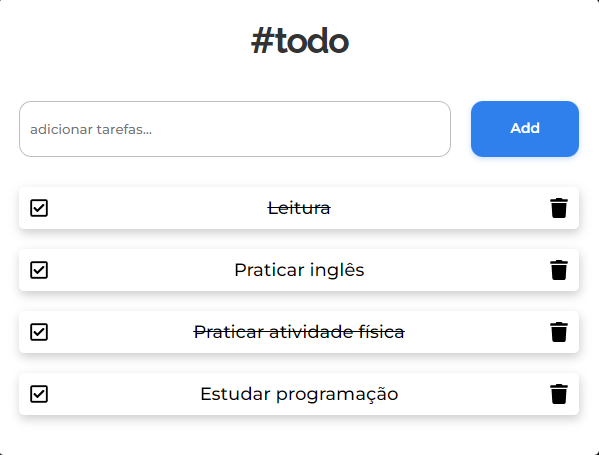
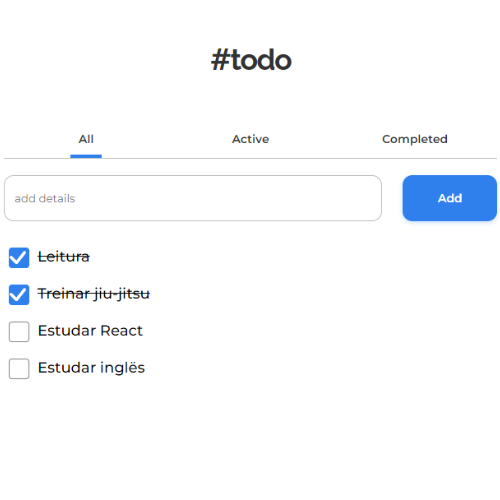
feat: add updated todo-list

diff --git a/src/components/Projects/Projects.jsx b/src/components/Projects/Projects.jsx
@@ -1,5 +1,5 @@
 import Title from "../Title/Title"
-import templateTodo2 from '../../assets/templateTodo2.png'
+import templateTodo from '../../assets/templateTodo.png'
 import templateConvert from '../../assets/templateConvert.png'
 import templateBlog from '../../assets/templateBlog.png'
 import templateForm from '../../assets/templateForm.png'
@@ -26,11 +26,11 @@ const Projects = () => {
           <ItemProject template={templateWeather} name= "Weather"  descrition='O projeto é capaz de obter informações climáticas, como temperatura, estado do vento, pressão do ar, visibilidade, umidade e as previsões climáticas para os próximos 5 dias, assim que a pessoa digitar o nome de alguma cidade. A interface foi criada de forma simples e intuitiva, com campo de busca para digitar o nome da cidade e o botão de busca, assim que o usuário digita e busca as informações são exibidas logo em seguida. O projeto foi desenvolvido com React e usa a API do weatherapi.com para obter as informações climáticas.' link1="https://github.com/miguelfiais/weather" link2="https://mfweather.netlify.app/"
           icon={<SiReact />} icon2={<SiStyledcomponents />} data="23/01/2023"/>
 
+          <ItemProject template={templateTodo} name= "To Do List"  descrition='Eu criei um aplicativo de lista de tarefas usando React que me permite adicionar, atualizar e excluir tarefas. Além disso, eu incluí três modos de exibição diferentes: "all", "active" e "completed". Para alternar entre os modos de exibição, usei a biblioteca React Router DOM para criar rotas diferentes para cada modo. Para garantir que as tarefas sejam salvas mesmo após a atualização da página, implementei o uso do LocalStorage do navegador. Por fim, para permitir que diferentes componentes da aplicação acessem informações de contexto, utilizei a API useContext do React. Com isso, pude compartilhar informações sobre as tarefas entre os diferentes componentes, tornando a construção do aplicativo mais fácil e intuitiva.' link1="https://github.com/miguelfiais/todo-list" link2="https://mftodolist.netlify.app/"
+          icon={<SiReact />} icon2={<SiStyledcomponents />} data="17/09/2022"/>
+
           <ItemProject template={templateFlix} name= "Rocketflix"  descrition='Desenvolvi o projeto com React para resolver um desafio da Rocketseat. Utilizei a API do TMDB para exibir filmes aleatórios ao clicar em "Encontrar Filme". Estudei a documentação da API antes de começar o projeto. Criei uma interface simples com React e implementei a lógica para requisição e tratamento da resposta da API. Enfrentei desafios, mas consegui completar o projeto com sucesso.' link1="https://github.com/miguelfiais/rocketflix" link2="https://mfrocketflix.netlify.app/"
           icon={<SiReact />} icon2={<SiStyledcomponents />} data="21/01/2023"/>
-
-          <ItemProject template={templateTodo2} name= "To Do List"  descrition="Projeto desenvolvido no DevClub, com a finalidade de aprender React. Neste projeto o usuário adiciona tarefas do dia a dia, alterando o estado quando concluída e também deletar alguma tarefa. Com isso, aprendi sobre os Hooks do React o uso do useState, também a estilizar com Styled-components (CSS in JS), e definir CSS atrvés de algum dado através das props." link1="https://github.com/miguelfiais/to-do-list" link2="https://todolistreactm.netlify.app/"
-          icon={<SiReact />} icon2={<SiStyledcomponents />} data="17/09/2022"/>
 
           <ItemProject template={templateConvert} name= "Convert Money" descrition="O Convert Money foi um projeto desenvolvido no curso do DevClub. Foi a partir dele que eu tive o primeiro contato com a DOM (Document Obeject Model), com objetivo de  manipular os elementos do HTML de forma dinâmina por determinado evento, através do JavaScript. Além disso, foi muito importante para treinar a lógica a de programação."  link1="https://github.com/miguelfiais/ConvertMoney" link2="https://miguelfiais.github.io/ConvertMoney/"
           icon={<SiHtml5 />} icon2={<SiCss3 />} icon3={<SiJavascript />}  data="07/07/2022"/>
@@ -50,7 +50,6 @@ const Projects = () => {
           link1="https://github.com/miguelfiais/Page-Nike" 
           link2="https://miguelfiais.github.io/Page-Nike/"  icon={<SiHtml5 />} icon2={<SiCss3 />} icon3={<SiJavascript />} data="05/09/2022"/>
 
-          
           <ItemProject template={templateForm} name= "React Form" descrition="Nesse projeto fiz um formulário no React. Onde utilizei o React Hook Forms que facilita muito na criação de formulário, fazendo validação dos campos, como criar um Schema do formulário e também como verificar todos os dados do formulário."  link1="https://github.com/miguelfiais/forms-react" link2="https://flourishing-platypus-ff8700.netlify.app/"
           icon={<SiReact />} icon2={<SiStyledcomponents />} data="10/10/2022"/> 
 
